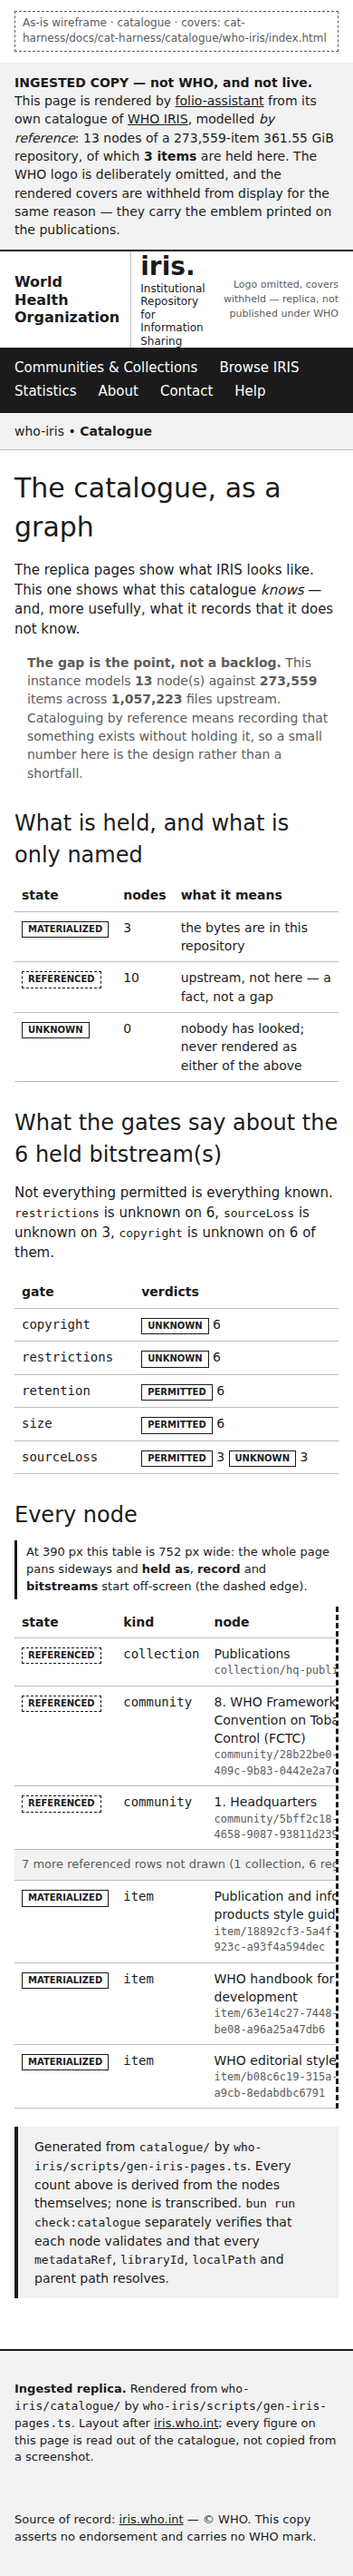
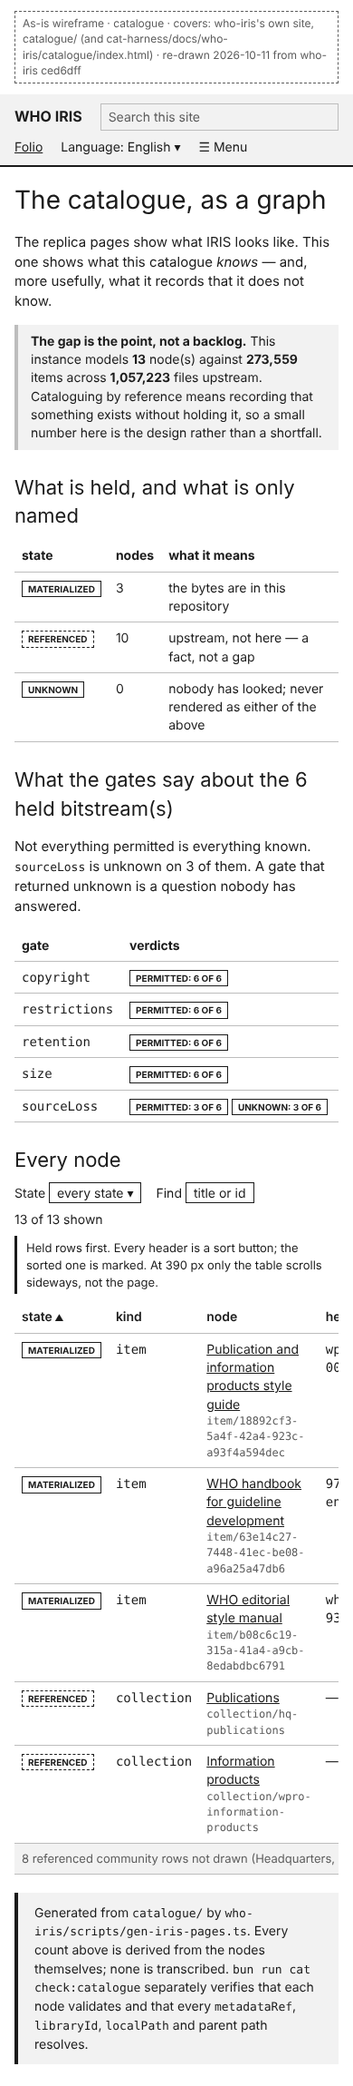
Re-draw the catalogue wireframe as the page is now (bean kx0p)
as-is.html drew the replica-chrome page of September: inert menu, referenced
rows first, bare gate counts, page-wide scroll. It now draws the page as built
at who-iris ced6dff: site layout, held rows first, labelled gate pills, the
filter and sort controls (who-iris#40), the table scrolling in its own box.
intent.md records each of the six findings' state. wireframe:check: renders,
no-overflow, no-placeholder pass at 1280x800 and 390x844; screenshots updated.

Claude-Session: https://claude.ai/code/session_017fFnGmbJcfqqrHXz9oqxdG

Changed region(s): [[0.0, 0.0, 1.0, 0.9883]]

diff --git a/docs/wireframes/catalogue/as-is.html b/docs/wireframes/catalogue/as-is.html
@@ -6,107 +6,98 @@
 <title>As-is wireframe: the catalogue, as a graph</title>
 <link rel="stylesheet" href="../wireframe.css">
 <style>
-  .wrap { max-width: 1140px; margin: 0 auto; padding: 0 24px; }
-  .banner { border-bottom: 2px solid var(--ink); background: var(--fill); padding: 12px 0; font-size: 14px; }
-  .brand { display: flex; justify-content: space-between; align-items: center; gap: 16px; padding: 14px 0; }
-  .word { display: flex; gap: 12px; align-items: center; }
-  .word .org { font-weight: 700; font-size: 16px; line-height: 1.2; }
-  .word .iris { border-left: 1px solid var(--line); padding-left: 10px; font-size: 12px; line-height: 1.2; }
-  .word .iris b { font-size: 28px; display: block; }
-  .omit { font-size: 12px; color: var(--mute); text-align: right; max-width: 16rem; }
-  nav.main { background: var(--ink); color: var(--bg); }
-  nav.main .wrap { display: flex; flex-wrap: wrap; gap: 4px 24px; padding-top: 12px; padding-bottom: 12px; }
-  .crumbs { background: var(--fill); border-bottom: 1px solid var(--line); }
-  .crumbs .wrap { padding-top: 10px; padding-bottom: 10px; font-size: 14px; }
-  article { max-width: 1060px; margin: 0 auto; padding: 16px 40px 32px; }
-  h1 { font-size: 36px; font-weight: 400; margin: 12px 0; }
-  h2 { font-size: 24px; font-weight: 400; margin: 28px 0 10px; }
+  .top { border-bottom: 2px solid var(--ink); background: var(--fill); }
+  .top .in { display: flex; flex-wrap: wrap; align-items: center; gap: 8px 20px; padding: 10px 24px; font-size: 14px; }
+  .top .site { font-weight: 700; font-size: 16px; }
+  .top .search { flex: 1 1 14rem; border: 1px solid var(--line); padding: 4px 8px; color: var(--mute); max-width: 22rem; }
+  .shell { display: grid; grid-template-columns: 220px 1fr; max-width: 1280px; margin: 0 auto; }
+  aside.side { border-right: 1px solid var(--line); padding: 16px; font-size: 14px; }
+  aside.side ul { list-style: none; margin: 0; padding: 0; }
+  aside.side li { padding: 4px 0; }
+  aside.side li.here { font-weight: 700; }
+  article { padding: 16px 32px 32px; min-width: 0; }
+  h1 { font-size: 34px; font-weight: 400; margin: 8px 0 12px; }
+  h2 { font-size: 22px; font-weight: 400; margin: 26px 0 10px; }
   .lede { max-width: 45rem; }
-  .gapnote { color: var(--mute); padding-left: 30px; font-size: 14px; }
+  .note { border-left: 4px solid var(--line); background: var(--fill); padding: 8px 14px; font-size: 14px; }
   table { border-collapse: collapse; width: 100%; font-size: 14px; }
   th, td { text-align: left; padding: 7px 8px; border-bottom: 1px solid var(--line); vertical-align: top; }
-  .st { display: inline-block; border: 1px solid var(--ink); font-size: 10px; font-weight: 700; padding: 1px 6px; }
+  .st { display: inline-block; border: 1px solid var(--ink); font-size: 10px; font-weight: 700; padding: 1px 6px; text-transform: uppercase; }
   .st.ref { border-style: dashed; }
   .path { display: block; font-family: monospace; font-size: 12px; color: var(--mute); }
   .mono { font-family: monospace; }
+  u.a { text-decoration: underline; }
+  .filter { display: flex; flex-wrap: wrap; gap: 8px 16px; align-items: center; font-size: 14px; margin: 6px 0; }
+  .ctl { border: 1px solid var(--ink); padding: 2px 8px; }
+  .sort { font-weight: 600; }
+  .sorted::after { content: " \25B2"; font-size: 10px; }
+  .scroller { overflow-x: auto; }
   .skip td { color: var(--mute); background: var(--fill); font-size: 13px; }
   .gen { border-left: 4px solid var(--ink); background: var(--fill); padding: 12px 18px; font-size: 14px; margin-top: 20px; }
-  footer { border-top: 2px solid var(--ink); background: var(--fill); padding: 20px 0; font-size: 13px; margin-top: 32px; }
-  footer .wrap { display: grid; grid-template-columns: 2fr 1fr; gap: 24px; }
-  .clip { width: 100%; }
   @media (max-width: 700px) {
-    .wrap { padding: 0 16px; }
-    .omit { font-size: 11px; }
+    .shell { grid-template-columns: 1fr; }
+    aside.side { display: none; }
+    .top .in { padding: 10px 16px; }
     article { padding: 8px 16px 24px; }
-    h1 { font-size: 30px; }
-    .gapnote { padding-left: 14px; }
-    .clip { overflow: hidden; border-right: 3px dashed var(--ink); }
-    .clip table { width: 752px; }
-    footer .wrap { grid-template-columns: 1fr; }
+    h1 { font-size: 28px; }
+    .scroller table { width: 518px; }
   }
 </style>
 </head>
 <body>
-<div class="wf-meta">As-is wireframe · catalogue · covers: cat-harness/docs/cat-harness/catalogue/who-iris/index.html</div>
-<div class="banner"><div class="wrap"><b>INGESTED COPY — not WHO, and not live.</b> This page is rendered by <u>folio-assistant</u> from its own catalogue of <u>WHO IRIS</u>, modelled <i>by reference</i>: 13 nodes of a 273,559-item 361.55 GiB repository, of which <b>3 items</b> are held here. The WHO logo is deliberately omitted, and the rendered covers are withheld from display for the same reason — they carry the emblem printed on the publications.</div></div>
-<header class="wrap brand">
-  <div class="word"><span class="org">World Health<br>Organization</span><span class="iris"><b>iris.</b>Institutional Repository<br>for Information Sharing</span></div>
-  <span class="omit">Logo omitted, covers withheld — replica, not published under WHO</span>
-</header>
-<nav class="main" aria-label="IRIS replica menu (not links)"><div class="wrap"><span>Communities &amp; Collections</span><span>Browse IRIS</span><span>Statistics</span><span>About</span><span>Contact</span><span>Help</span></div></nav>
-<div class="crumbs"><div class="wrap">who-iris • <b>Catalogue</b></div></div>
-
+<div class="wf-meta">As-is wireframe · catalogue · covers: who-iris's own site, catalogue/ (and cat-harness/docs/who-iris/catalogue/index.html) · re-drawn 2026-10-11 from who-iris ced6dff</div>
+<div class="top"><div class="in"><span class="site">WHO IRIS</span><span class="search">Search this site</span><u class="a">Folio</u><span>Language: English ▾</span><span class="wf-mobile-only">☰ Menu</span></div></div>
+<div class="shell">
+<aside class="side" aria-label="Site navigation">
+  <ul><li><u class="a">Home</u></li><li><u class="a">Library</u></li><li class="here">Catalogue</li><li><u class="a">Docs</u></li><li><u class="a">Identifier lookup</u></li></ul>
+</aside>
 <article>
   <h1>The catalogue, as a graph</h1>
   <p class="lede">The replica pages show what IRIS looks like. This one shows what this catalogue <i>knows</i> — and, more usefully, what it records that it does not know.</p>
-  <p class="gapnote"><b>The gap is the point, not a backlog.</b> This instance models <b>13</b> node(s) against <b>273,559</b> items across <b>1,057,223</b> files upstream. Cataloguing by reference means recording that something exists without holding it, so a small number here is the design rather than a shortfall.</p>
+  <p class="note"><b>The gap is the point, not a backlog.</b> This instance models <b>13</b> node(s) against <b>273,559</b> items across <b>1,057,223</b> files upstream. Cataloguing by reference means recording that something exists without holding it, so a small number here is the design rather than a shortfall.</p>
 
   <h2>What is held, and what is only named</h2>
   <table aria-label="Materialisation states">
     <thead><tr><th>state</th><th>nodes</th><th>what it means</th></tr></thead>
     <tbody>
-      <tr><td><span class="st">MATERIALIZED</span></td><td>3</td><td>the bytes are in this repository</td></tr>
-      <tr><td><span class="st ref">REFERENCED</span></td><td>10</td><td>upstream, not here — a fact, not a gap</td></tr>
-      <tr><td><span class="st">UNKNOWN</span></td><td>0</td><td>nobody has looked; never rendered as either of the above</td></tr>
+      <tr><td><span class="st">materialized</span></td><td>3</td><td>the bytes are in this repository</td></tr>
+      <tr><td><span class="st ref">referenced</span></td><td>10</td><td>upstream, not here — a fact, not a gap</td></tr>
+      <tr><td><span class="st">unknown</span></td><td>0</td><td>nobody has looked; never rendered as either of the above</td></tr>
     </tbody>
   </table>
 
   <h2>What the gates say about the 6 held bitstream(s)</h2>
-  <p>Not everything permitted is everything known. <code>restrictions</code> is unknown on 6, <code>sourceLoss</code> is unknown on 3, <code>copyright</code> is unknown on 6 of them.</p>
-  <table aria-label="Gate verdicts" style="max-width:24rem">
+  <p>Not everything permitted is everything known. <code>sourceLoss</code> is unknown on 3 of them. A gate that returned unknown is a question nobody has answered.</p>
+  <table aria-label="Gate verdicts" style="max-width:30rem">
     <thead><tr><th>gate</th><th>verdicts</th></tr></thead>
     <tbody>
-      <tr><td class="mono">copyright</td><td><span class="st">UNKNOWN</span> 6</td></tr>
-      <tr><td class="mono">restrictions</td><td><span class="st">UNKNOWN</span> 6</td></tr>
-      <tr><td class="mono">retention</td><td><span class="st">PERMITTED</span> 6</td></tr>
-      <tr><td class="mono">size</td><td><span class="st">PERMITTED</span> 6</td></tr>
-      <tr><td class="mono">sourceLoss</td><td><span class="st">PERMITTED</span> 3 <span class="st">UNKNOWN</span> 3</td></tr>
+      <tr><td class="mono">copyright</td><td><span class="st">permitted: 6 of 6</span></td></tr>
+      <tr><td class="mono">restrictions</td><td><span class="st">permitted: 6 of 6</span></td></tr>
+      <tr><td class="mono">retention</td><td><span class="st">permitted: 6 of 6</span></td></tr>
+      <tr><td class="mono">size</td><td><span class="st">permitted: 6 of 6</span></td></tr>
+      <tr><td class="mono">sourceLoss</td><td><span class="st">permitted: 3 of 6</span> <span class="st">unknown: 3 of 6</span></td></tr>
     </tbody>
   </table>
 
   <h2>Every node</h2>
-  <p class="wf-note wf-mobile-only">At 390 px this table is 752 px wide: the whole page pans sideways and <b>held as</b>, <b>record</b> and <b>bitstreams</b> start off-screen (the dashed edge).</p>
-  <div class="clip">
+  <div class="filter"><span>State <span class="ctl">every state ▾</span></span><span>Find <span class="ctl">title or id</span></span><span>13 of 13 shown</span></div>
+  <p class="wf-note">Held rows first. Every header is a sort button; the sorted one is marked. At 390 px only the table scrolls sideways, not the page.</p>
+  <div class="scroller">
   <table aria-label="Every node">
-    <thead><tr><th>state</th><th>kind</th><th>node</th><th>held as</th><th>record</th><th>bitstreams</th></tr></thead>
+    <thead><tr><th class="sort sorted">state</th><th class="sort">kind</th><th class="sort">node</th><th class="sort">held as</th><th class="sort">record</th><th class="sort">bitstreams</th></tr></thead>
     <tbody>
-      <tr><td><span class="st ref">REFERENCED</span></td><td class="mono">collection</td><td>Publications<span class="path">collection/hq-publications</span></td><td>—</td><td>—</td><td>—</td></tr>
-      <tr><td><span class="st ref">REFERENCED</span></td><td class="mono">community</td><td>8. WHO Framework Convention on Tobacco Control (FCTC)<span class="path">community/28b22be0-5864-409c-9b83-0442e2a7ca0e</span></td><td>—</td><td>—</td><td>—</td></tr>
-      <tr><td><span class="st ref">REFERENCED</span></td><td class="mono">community</td><td>1. Headquarters<span class="path">community/5bff2c18-6c2b-4658-9087-93811d2399c0</span></td><td>—</td><td>—</td><td>—</td></tr>
-      <tr class="skip"><td colspan="6">7 more referenced rows not drawn (1 collection, 6 regional-office communities)</td></tr>
-      <tr><td><span class="st">MATERIALIZED</span></td><td class="mono">item</td><td>Publication and information products style guide<span class="path">item/18892cf3-5a4f-42a4-923c-a93f4a594dec</span></td><td class="mono">wpr-rdo-2020-003-eng</td><td>yes</td><td>2</td></tr>
-      <tr><td><span class="st">MATERIALIZED</span></td><td class="mono">item</td><td>WHO handbook for guideline development<span class="path">item/63e14c27-7448-41ec-be08-a96a25a47db6</span></td><td class="mono">9789241548960-eng</td><td>yes</td><td>2</td></tr>
-      <tr><td><span class="st">MATERIALIZED</span></td><td class="mono">item</td><td>WHO editorial style manual<span class="path">item/b08c6c19-315a-41a4-a9cb-8edabdbc6791</span></td><td class="mono">who-pub-tps-931</td><td>yes</td><td>2</td></tr>
+      <tr><td><span class="st">materialized</span></td><td class="mono">item</td><td><u class="a">Publication and information products style guide</u><span class="path">item/18892cf3-5a4f-42a4-923c-a93f4a594dec</span></td><td class="mono">wpr-rdo-2020-003-eng</td><td>yes</td><td>2</td></tr>
+      <tr><td><span class="st">materialized</span></td><td class="mono">item</td><td><u class="a">WHO handbook for guideline development</u><span class="path">item/63e14c27-7448-41ec-be08-a96a25a47db6</span></td><td class="mono">9789241548960-eng</td><td>yes</td><td>2</td></tr>
+      <tr><td><span class="st">materialized</span></td><td class="mono">item</td><td><u class="a">WHO editorial style manual</u><span class="path">item/b08c6c19-315a-41a4-a9cb-8edabdbc6791</span></td><td class="mono">who-pub-tps-931</td><td>yes</td><td>2</td></tr>
+      <tr><td><span class="st ref">referenced</span></td><td class="mono">collection</td><td><u class="a">Publications</u><span class="path">collection/hq-publications</span></td><td>—</td><td>—</td><td>—</td></tr>
+      <tr><td><span class="st ref">referenced</span></td><td class="mono">collection</td><td><u class="a">Information products</u><span class="path">collection/wpro-information-products</span></td><td>—</td><td>—</td><td>—</td></tr>
+      <tr class="skip"><td colspan="6">8 referenced community rows not drawn (Headquarters, FCTC and six regional offices)</td></tr>
     </tbody>
   </table>
   </div>
 
   <div class="gen">Generated from <code>catalogue/</code> by <code>who-iris/scripts/gen-iris-pages.ts</code>. Every count above is derived from the nodes themselves; none is transcribed. <code>bun run cat check:catalogue</code> separately verifies that each node validates and that every <code>metadataRef</code>, <code>libraryId</code>, <code>localPath</code> and parent path resolves.</div>
 </article>
-
-<footer><div class="wrap">
-  <p><b>Ingested replica.</b> Rendered from <code>who-iris/catalogue/</code> by <code>who-iris/scripts/gen-iris-pages.ts</code>. Layout after <u>iris.who.int</u>; every figure on this page is read out of the catalogue, not copied from a screenshot.</p>
-  <p>Source of record: <u>iris.who.int</u> — © WHO. This copy asserts no endorsement and carries no WHO mark.</p>
-</div></footer>
+</div>
 </body>
 </html>

diff --git a/docs/wireframes/catalogue/intent.md b/docs/wireframes/catalogue/intent.md
@@ -33,3 +33,18 @@ Rendered at 1280×800 and 390×844. The page has no responsive rules for its tab
 4. **The node list is not filterable or sortable,** and it puts the 10 referenced rows ahead of the 3 materialized ones. At 1280×800 the first materialized row is about two screens down.
 5. **About the first 280 px at 1280 (about 510 px at 390) is replica chrome** before the `h1`: banner, wordmark, menu, breadcrumb. At 390 px the `h1` starts at about y = 560, and the first table is below the first screen.
 6. **The gate verdict counts have no label.** The state pills carry their word as well as a tint, so colour is not the only channel. In the gates table, though, each count follows its pill as a bare number ("PERMITTED 3 UNKNOWN 3"). It reads as one run, not as two verdicts with a count each.
+
+## Re-drawn 2026-10-11 (who-iris ced6dff; bean kx0p)
+
+`as-is.html` now draws the page as it is today, on who-iris's own site (`catalogue/`) and in cat-harness's copy. The six findings:
+
+1. **Horizontal scroll at phone width — fixed.** Only the node table scrolls (518 px inside its box); the page does not.
+2. **Inert menu and breadcrumb — gone.** The page wears the site layout (top band, sidebar), not the replica's chrome.
+3. **No row leads anywhere — fixed.** Collection and item titles link their replica pages. "Held as" links the library viewer only where the site builds one, so who-iris's own site shows the id as text rather than a dead link.
+4. **Not filterable or sortable — fixed** (who-iris#40). Held rows come first. A state select and a title-or-id search sit above the table, with "n of N shown", and every header is a sort button. The controls stay hidden without scripts.
+5. **Replica chrome before the h1 — gone,** with finding 2.
+6. **Unlabelled gate counts — fixed.** Each count is inside its pill and labelled ("permitted: 3 of 6").
+
+The figures are read from the page built at ced6dff:
+- 13 nodes: 3 materialized, 10 referenced, 0 unknown.
+- Gates: every gate is permitted on all 6 bitstreams, except `sourceLoss`, which is unknown on 3.
